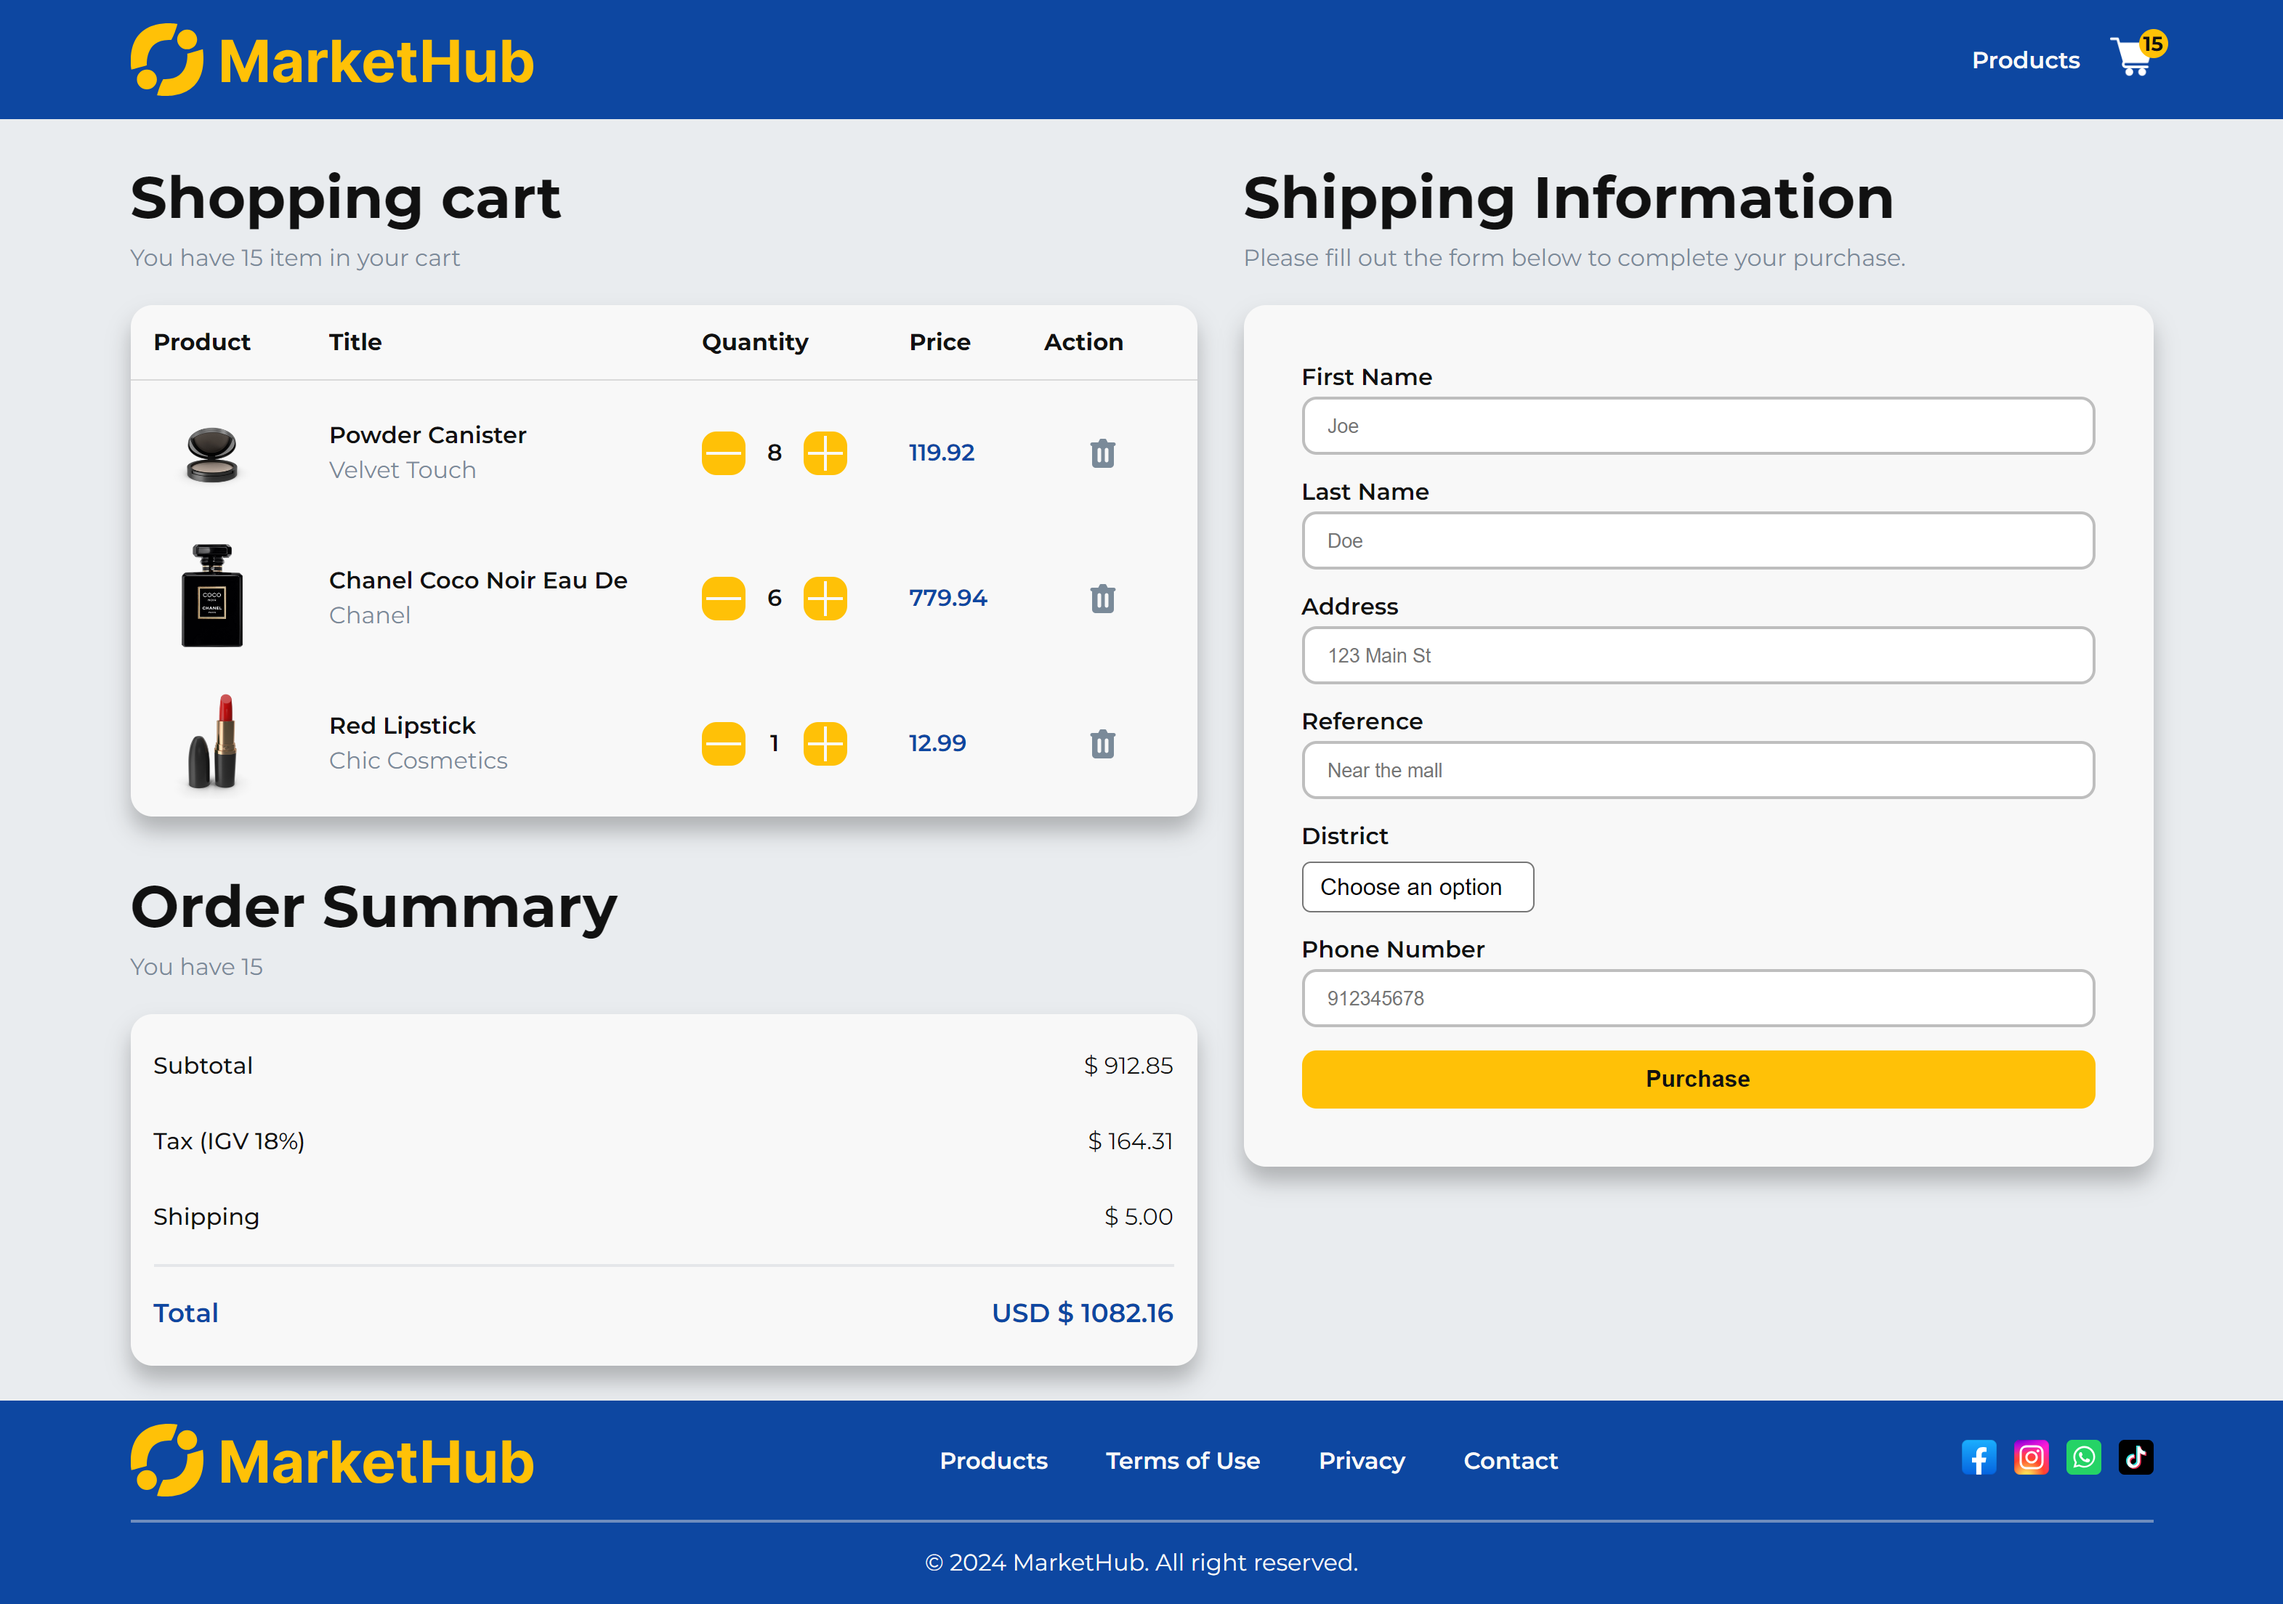
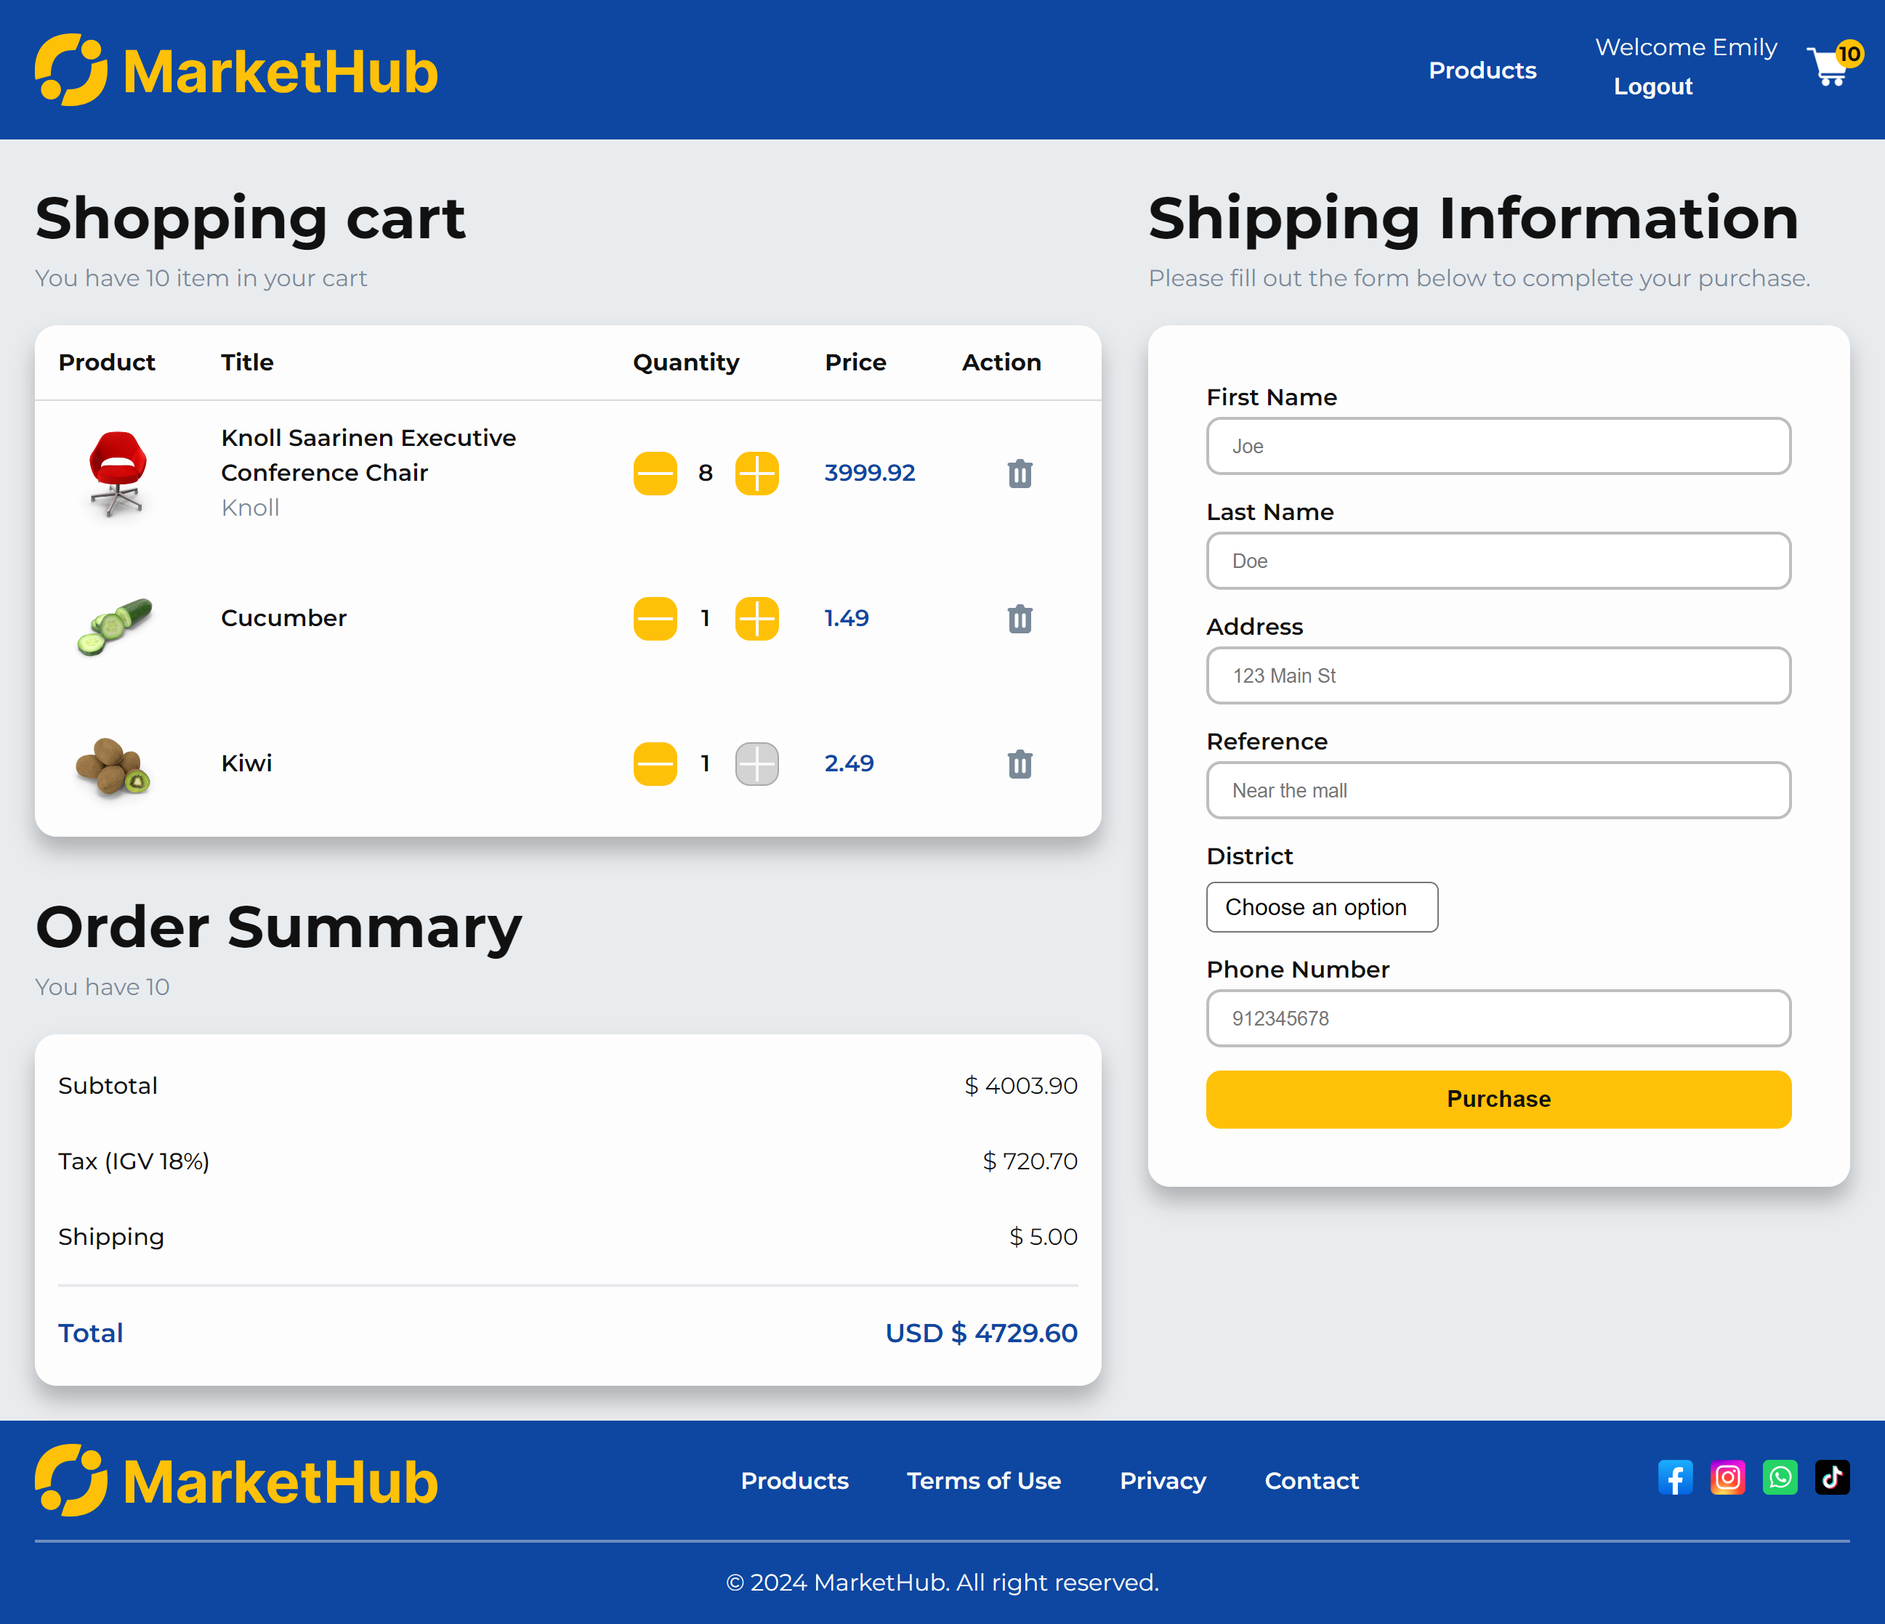
docs(readme): update README with new images

diff --git a/README.md b/README.md
@@ -23,16 +23,6 @@ Este proyecto es un mini marketplace implementado con **TypeScript**, **Vite** y
   - El precio total se actualizará en base a la cantidad de productos en la tabla.
 - **Pruebas unitarias**: Se han implementado pruebas unitarias en el proyecto utilizando Jest y Testing Library, cubriendo las principales funcionalidades y componentes.
 
-## Migración a React + TypeScript + Vite
-
-Este proyecto ha sido migrado de JavaScript a **React** y **TypeScript**, siguiendo los siguientes lineamientos:
-
-- **Uso de hooks**: Se han utilizado `useEffect` y `useState` correctamente para manejar el estado y los efectos secundarios en los componentes.
-- **Arquitectura de carpetas escalable**: La estructura del proyecto está organizada en carpetas que separan los assets, servicios,dominio,mappers, los componentes, las páginas y los utilitarios, asegurando la escalabilidad y mantenibilidad del código.
-- **Tipos fuertes**: Se han definido interfaces y tipos para garantizar que los datos se manejen correctamente en toda la aplicación, evitando el uso de `any`.
-- **Estructura de Archivos**: La lógica de negocio se ha separado de las definiciones de estructuras de datos, organizando el código en carpetas como `assets`,`components`,`domain`,`utilities`, `services`, y `mappers`.
-- **Patrón de Mappers**: Se implementó un patrón de mappers para transformar las respuestas de los servicios en objetos de tipo `Product` y `Category`, lo que facilita la manipulación de datos en la aplicación.
-
 ## Estructura del Proyecto
 
 La arquitectura del proyecto está organizada de la siguiente manera, garantizando una clara separación de responsabilidades:
@@ -126,7 +116,29 @@ Se ha agregado una nueva página, la cual permite visualizar la lista de product
 
 ## Implementación del Proyecto
 
-A continuación se muestran capturas de la implemenación:
+En esta sección se muestra las imágenes de la implementación.
+
+### Home
+
+![home--desktop](./src/assets/design/home-page-desktop--implementation.png)
+
+### Products
+
+![products-page--tablet](./src/assets/design/products-page-desktop--implementation.png)
+
+### Cart
 
 ![cart-page--desktop](./src/assets/design/cart-page-desktop--implementation.png)
-![cart-page--tablet](./src/assets/design/cart-page-tablet--implementation.png)
+
+### Login
+
+![login--desktop](./src/assets/design/login-page-desktop--implementation.png)
+![login-error-1--desktop](./src/assets/design/login-page-error-desktop--implementation.png)
+![login-error-2-desktop](./src/assets/design/login-page-error-2-desktop--implementation.png)
+
+### Dialog
+
+![forgot-password-desktop](./src/assets/design/forgot-password-desktop--implementation.png)
+
+![forgot-password-error-desktop](./src/assets/design/forgot-password-error-desktop--implementation.png)
+![forgot-password-error-desktop](./src/assets/design/forgot-password-success--implementation.png)
